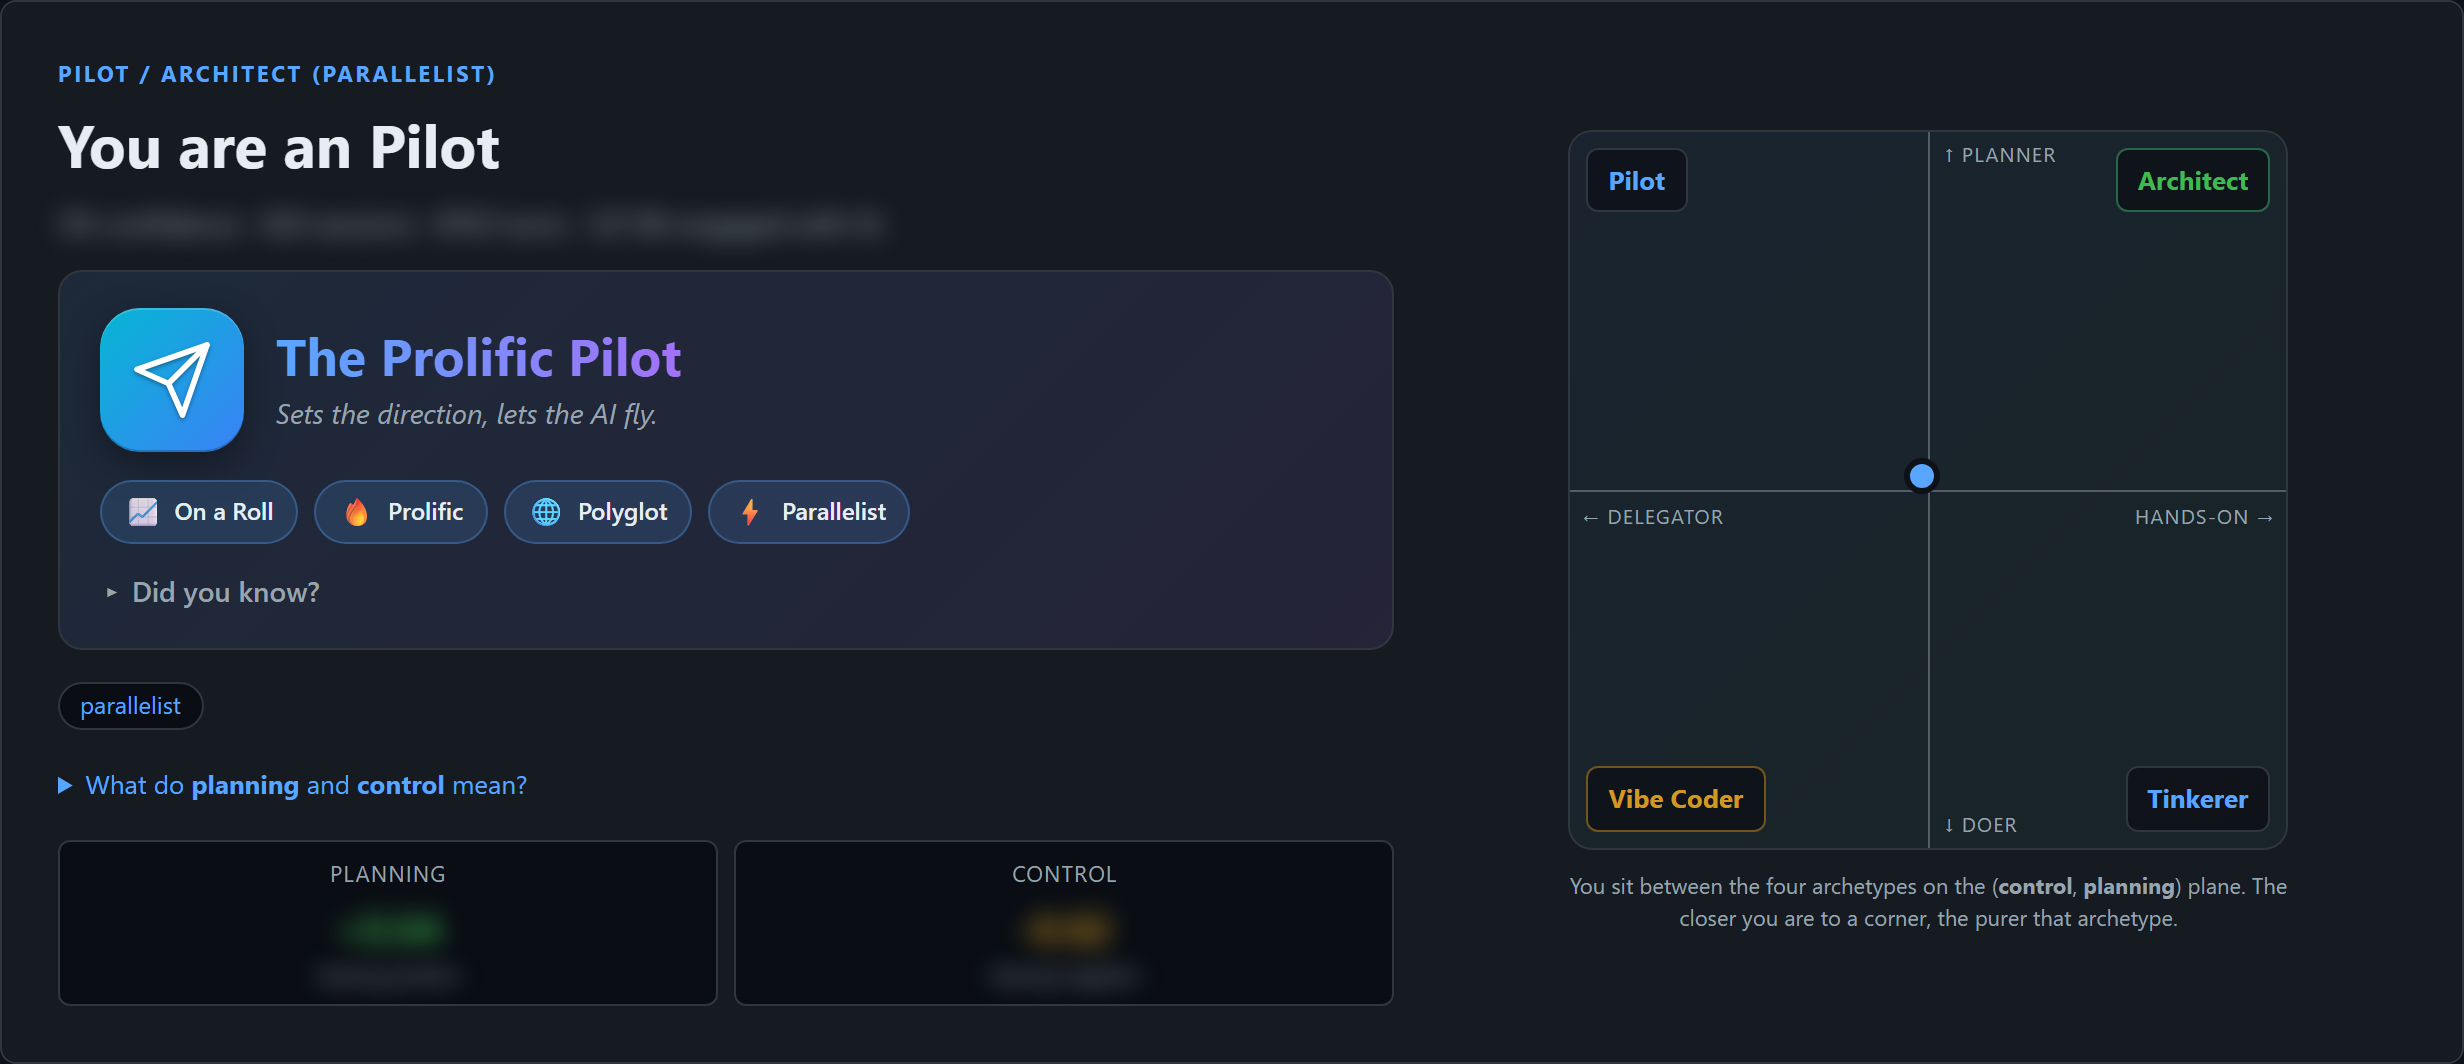
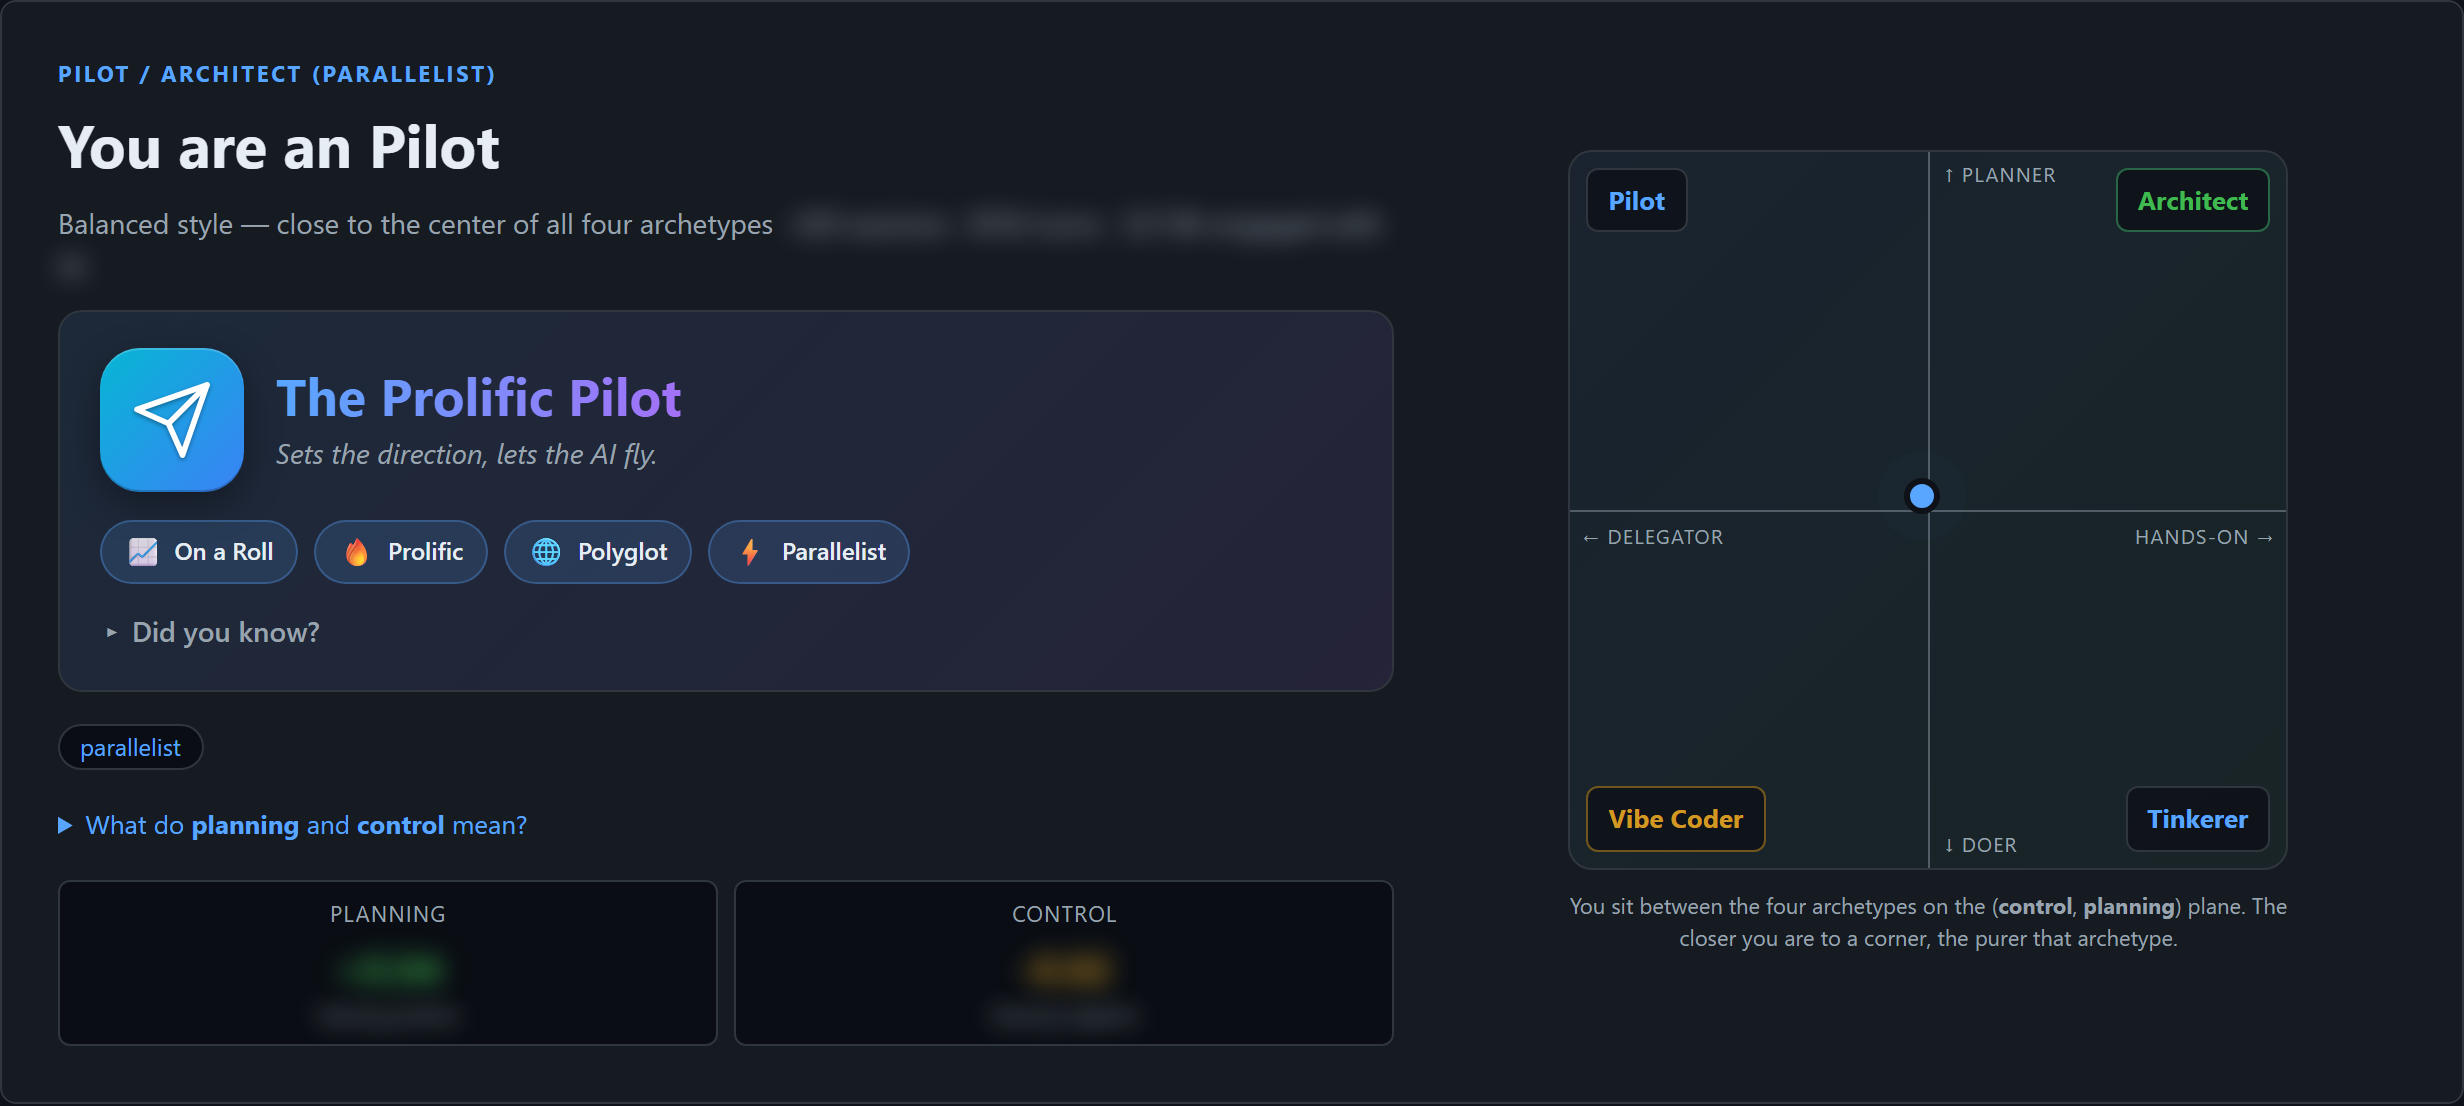
fix(portal): rename misleading 'confidence' metric to 'archetype lean'
The hero subtitle was showing things like '3% confidence', which sounded like the analysis didn't trust the data. The number is actually (|planning| + |control|) / 2 -- how far the user sits from the dead center of the (Planning, Control) quadrant. A user with 420 sessions and 8763 turns who happens to be balanced (planning=+0.04, control=-0.02) was reading as '3% confidence', implying statistical uncertainty where there is none.

Changes:

- services.py: rename _confidence -> _archetype_lean; add _archetype_lean_label() that returns a qualitative phrase ('Strong Pilot tendency' / 'Clear Architect tilt' / 'Mild Tinkerer lean' / 'Balanced style -- close to the center of all four archetypes').

- API now exposes archetype_lean (number 0-1) and archetype_lean_label (string) instead of confidence.

- app.js renders the qualitative label in the hero subtitle (no more X% prefix).

- Test fixtures updated to the new field names; all 238 tests pass.

- Hero screenshot re-captured with the new label visible.

diff --git a/src/aianalyzer/web/static/app.js b/src/aianalyzer/web/static/app.js
@@ -458,11 +458,12 @@
   function renderHero(p) {
     const primary = (p.primary_archetype || "unknown").replace(/^./, c => c.toUpperCase());
     $("#hero-archetype").textContent = `You are an ${primary}`;
-    const conf = Math.round((p.confidence || 0) * 100);
     const eb = $(".hero-eyebrow");
     if (eb) eb.textContent = p.macro_label || "Your AI archetype";
+    const leanLabel = p.archetype_lean_label || "";
+    const prefix = leanLabel ? `${leanLabel} · ` : "";
     $("#hero-summary").textContent =
-      `${conf}% confidence · ${p.totals.sessions} sessions · ` +
+      `${prefix}${p.totals.sessions} sessions · ` +
       `${p.totals.turns} turns · ${pretty(p.totals.hours)}h engaged with AI.`;
 
     const tagsEl = $("#hero-tags");

diff --git a/src/aianalyzer/web/services.py b/src/aianalyzer/web/services.py
@@ -74,9 +74,27 @@ def _cache_path() -> Path:
     return base / "cache.duckdb"
 
 
-def _confidence(planning: float, control: float) -> float:
-    """Bounded heuristic: stronger axis magnitudes => higher confidence."""
+def _archetype_lean(planning: float, control: float) -> float:
+    """How far the user sits from the dead center of the (planning, control)
+    plane. 0 = perfectly balanced across all four archetypes, 1 = at the
+    extreme corner of one archetype. This is NOT statistical confidence in
+    the data — even a user with thousands of sessions can sit at the
+    center if their style is genuinely balanced."""
     return min(1.0, (abs(planning) + abs(control)) / 2.0)
+
+
+def _archetype_lean_label(lean: float, primary: str) -> str:
+    """Translate the numeric lean into a phrase that doesn't sound like
+    statistical uncertainty. The phrasing reinforces the already-displayed
+    primary archetype name."""
+    pretty = primary.replace("_", " ").title() if primary else "this archetype"
+    if lean >= 0.50:
+        return f"Strong {pretty} tendency"
+    if lean >= 0.25:
+        return f"Clear {pretty} tilt"
+    if lean >= 0.10:
+        return f"Mild {pretty} lean"
+    return "Balanced style — close to the center of all four archetypes"
 
 
 # Six independent traits that produce a real radar shape (unlike projecting
@@ -281,14 +299,19 @@ def load_profile_payload() -> dict[str, Any]:
     classification = classify(user_profile)
     ext = compute_extended_profile(features)
 
+    primary_value = classification.primary.value
+    lean_value = round(
+        _archetype_lean(classification.planning_score, classification.control_score), 3
+    )
     return {
-        "primary_archetype": classification.primary.value,
+        "primary_archetype": primary_value,
         "secondary_archetype": (
             classification.secondary.value if classification.secondary else None
         ),
         "macro_label": classification.macro_label,
         "tags": list(classification.tags),
-        "confidence": round(_confidence(classification.planning_score, classification.control_score), 3),
+        "archetype_lean": lean_value,
+        "archetype_lean_label": _archetype_lean_label(lean_value, primary_value),
         "axes": {
             "planning": round(classification.planning_score, 3),
             "control": round(classification.control_score, 3),

diff --git a/tests/test_narrative.py b/tests/test_narrative.py
@@ -14,7 +14,8 @@ def _facts():
     return {
         "primary_archetype": Archetype.ARCHITECT.value,
         "secondary_archetype": Archetype.PILOT.value,
-        "confidence": 0.78,
+        "archetype_lean": 0.78,
+        "archetype_lean_label": "Strong Architect tendency",
         "axes": {"planning": 0.32, "control": 0.37, "depth": 0.05, "speed": -0.10},
         "totals": {"sessions": 168, "turns": 1820, "hours": 92.4, "days_active": 41},
         "top_tools": [("edit", 220), ("read", 180)],

diff --git a/tests/test_web_api.py b/tests/test_web_api.py
@@ -184,7 +184,8 @@ def _stub_profile(monkeypatch):
         "secondary_archetype": None,
         "macro_label": "Architect",
         "tags": [],
-        "confidence": 0.5,
+        "archetype_lean": 0.5,
+        "archetype_lean_label": "Clear Architect tilt",
         "axes": {"planning": 0.3, "control": 0.4},
         "totals": {"sessions": 1, "turns": 1, "hours": 0.1, "days_active": 1, "longest_streak_days": 1},
         "averages": {},